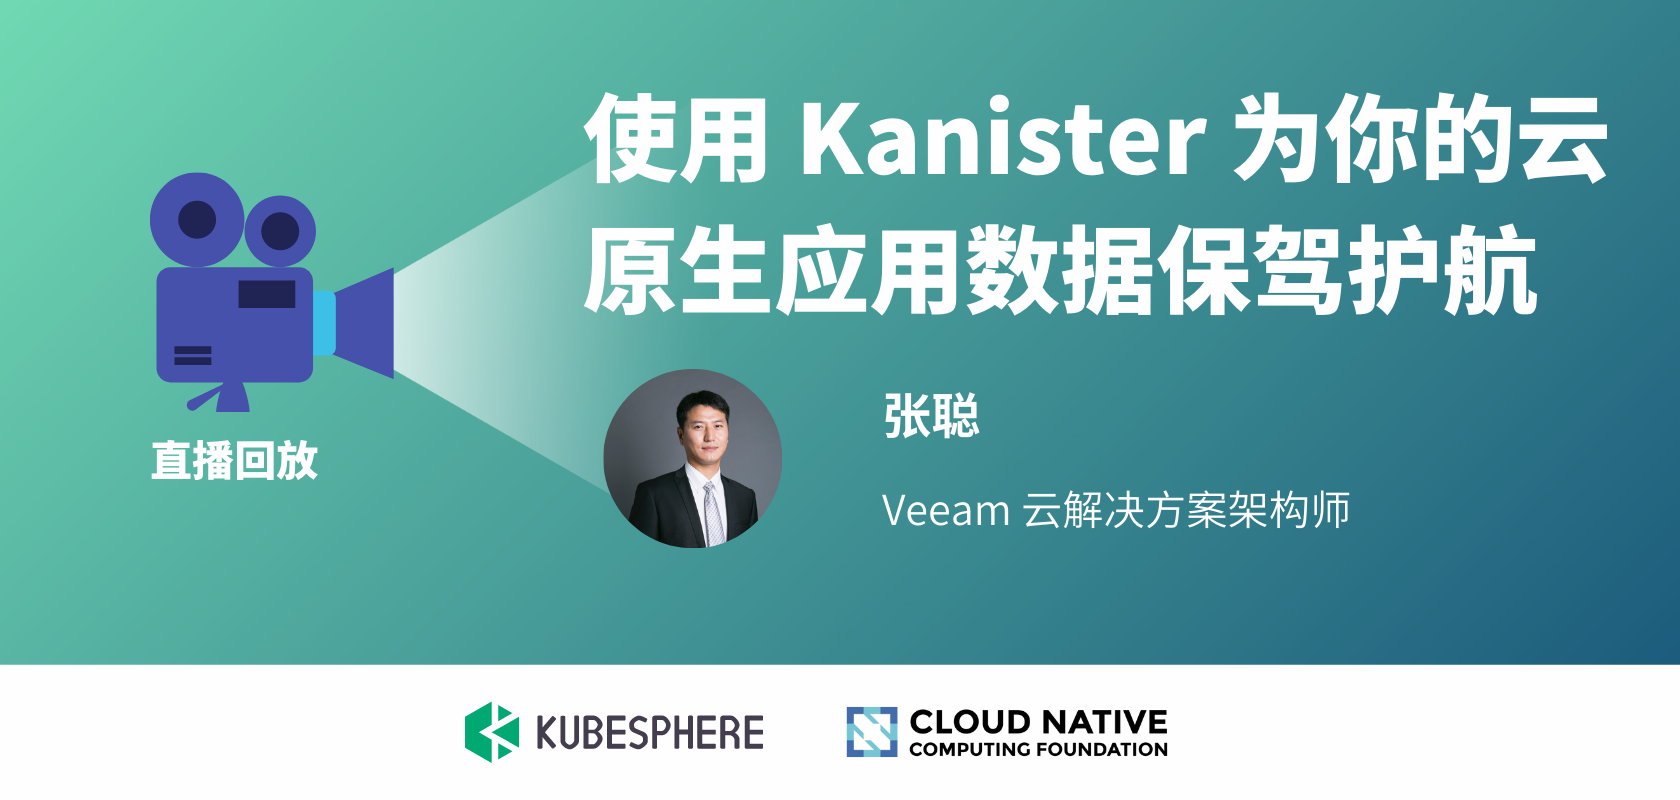
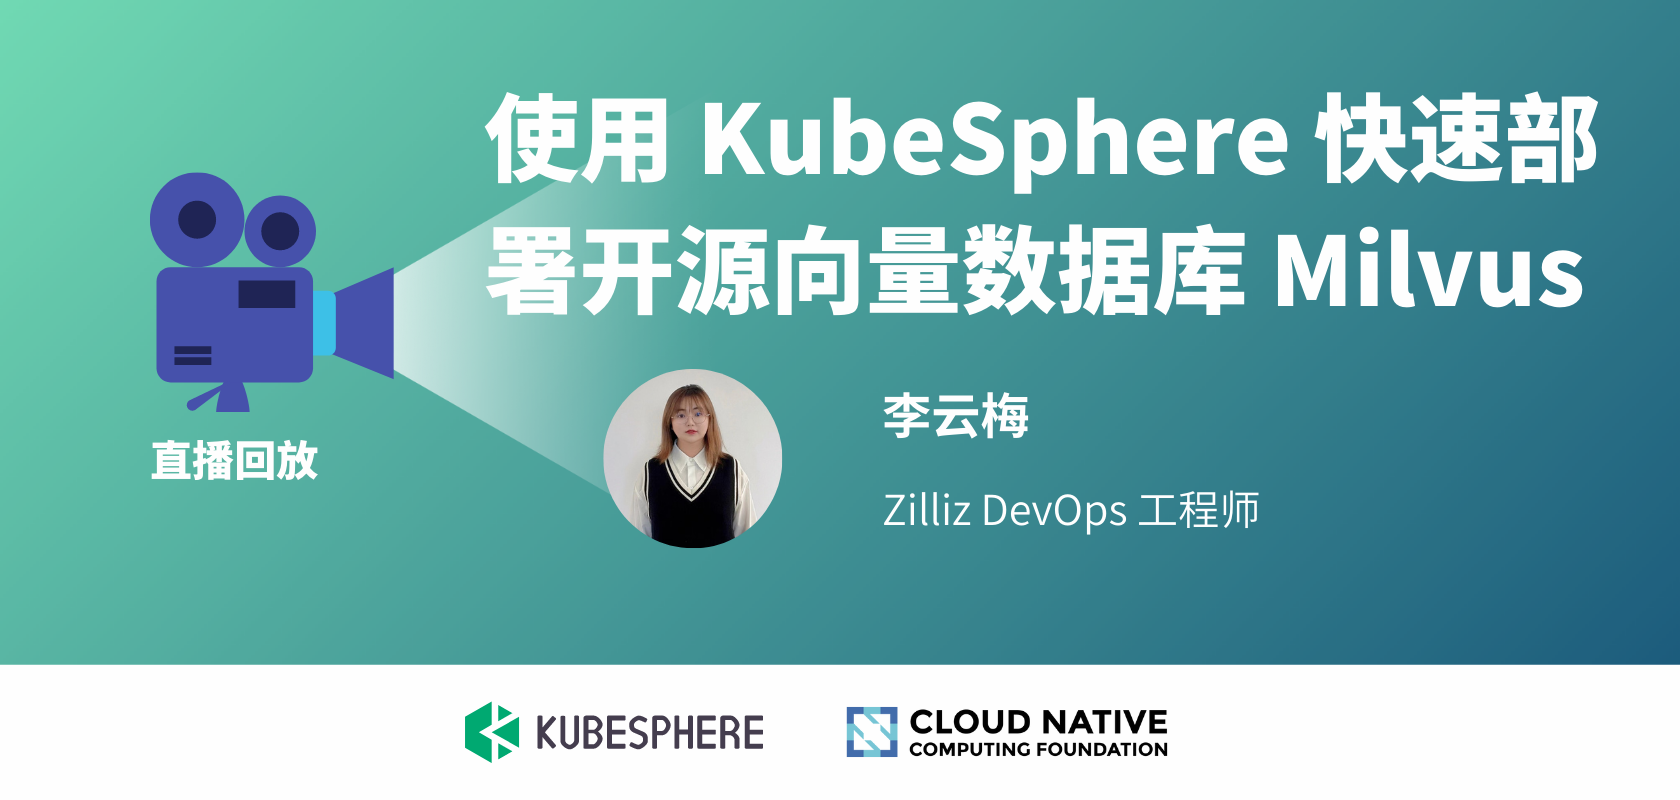
update the page of live

diff --git a/content/zh/live/kubekey0331-live.md b/content/zh/live/kubekey0331-live.md
@@ -1,0 +1,36 @@
+---
+title: 使用 KubeKey 进行闪电交付
+description: 本次分享将主要介绍和演示如何通过 KubeKey 自定义自己的离线包制品，且使用该制品进行离线部署，最终实现自定义集群的闪电交付。
+keywords: KubeSphere, Kubernetes, KubeKey
+css: scss/live-detail.scss
+
+section1:
+  snapshot: 
+  videoUrl: 
+  type: iframe
+  time: 2022-03-31 20:00-21:00
+  timeIcon: /images/live/clock.svg
+  base: 线上
+  baseIcon: /images/live/base.svg
+---
+## 分享内容简介
+
+如何正确，便捷地在离线环境中交付 Kubernetes 集群一直是用户的难点和痛点。KubeKey v2.0.0 版本中新增了清单（manifest）和制品（artifact）的概念，为用户提供了一种全新的，可自定义的，离线部署 Kubernertes 集群的解决方案。本次分享将主要介绍和演示如何通过 KubeKey 自定义自己的离线包制品，且使用该制品进行离线部署，最终实现自定义集群的闪电交付。
+
+## 讲师简介
+
+李耀宗，目前就职于青云科技公司容器研发部，开源爱好者，KubeKey Maintainer，Installtion SIG 成员。目前主要负责 KubeKey v2.0.0 相关开发工作。
+
+Tanguofu，KubeSphere Member，KubeKey Maintainer。
+
+## 分享大纲
+
+![](https://pek3b.qingstor.com/kubesphere-community/images/kubekey0331-live.png)
+
+## 直播时间
+
+2022 年 03 月 31 日 20:00-21:00
+
+## 直播地址
+
+B 站  http://live.bilibili.com/22580654

diff --git a/content/zh/live/_index.md b/content/zh/live/_index.md
@@ -10,22 +10,29 @@ section1:
 
 section2:
   image: /images/live/cloudnative-live-banner.png
-  url: ./kasten0317-live/
+  url: ./milvus0324-live/
 
   notice:
-    title: 使用 KubeSphere 快速部署开源向量数据库 Milvus 2.0
+    title: 使用 KubeKey 进行闪电交付
     tag: 预告
-    time: 2022 年 03 月 24 日晚 8 点
+    time: 2022 年 03 月 31 日晚 8 点
     base: 线上
-    url: ./milvus0324-live/
+    url: ./kubekey0331-live/
 
   over:
-    title: 详解 K8s 服务暴露机制与 OpenELB 负载均衡器插件
-    url: ./skywalking0310-live/
+    title: 使用 Kanister 为你的云原生应用数据保驾护航
+    url: ./kasten0317-live/
     tag: 结束
 
 section3:
   videos:
+    - title: 使用 KubeSphere 快速部署开源向量数据库 Milvus 2.0
+      link: ./milvus0324-live/
+      snapshot: https://pek3b.qingstor.com/kubesphere-community/images/milvus0234-live-cover.png
+      type: iframe
+      createTime: 2022.03.24
+      group: 直播回放 
+
     - title: 使用 Kanister 为你的云原生应用数据保驾护航
       link: ./kasten0317-live/
       snapshot: https://pek3b.qingstor.com/kubesphere-community/images/kasten0317-live-cover.png
